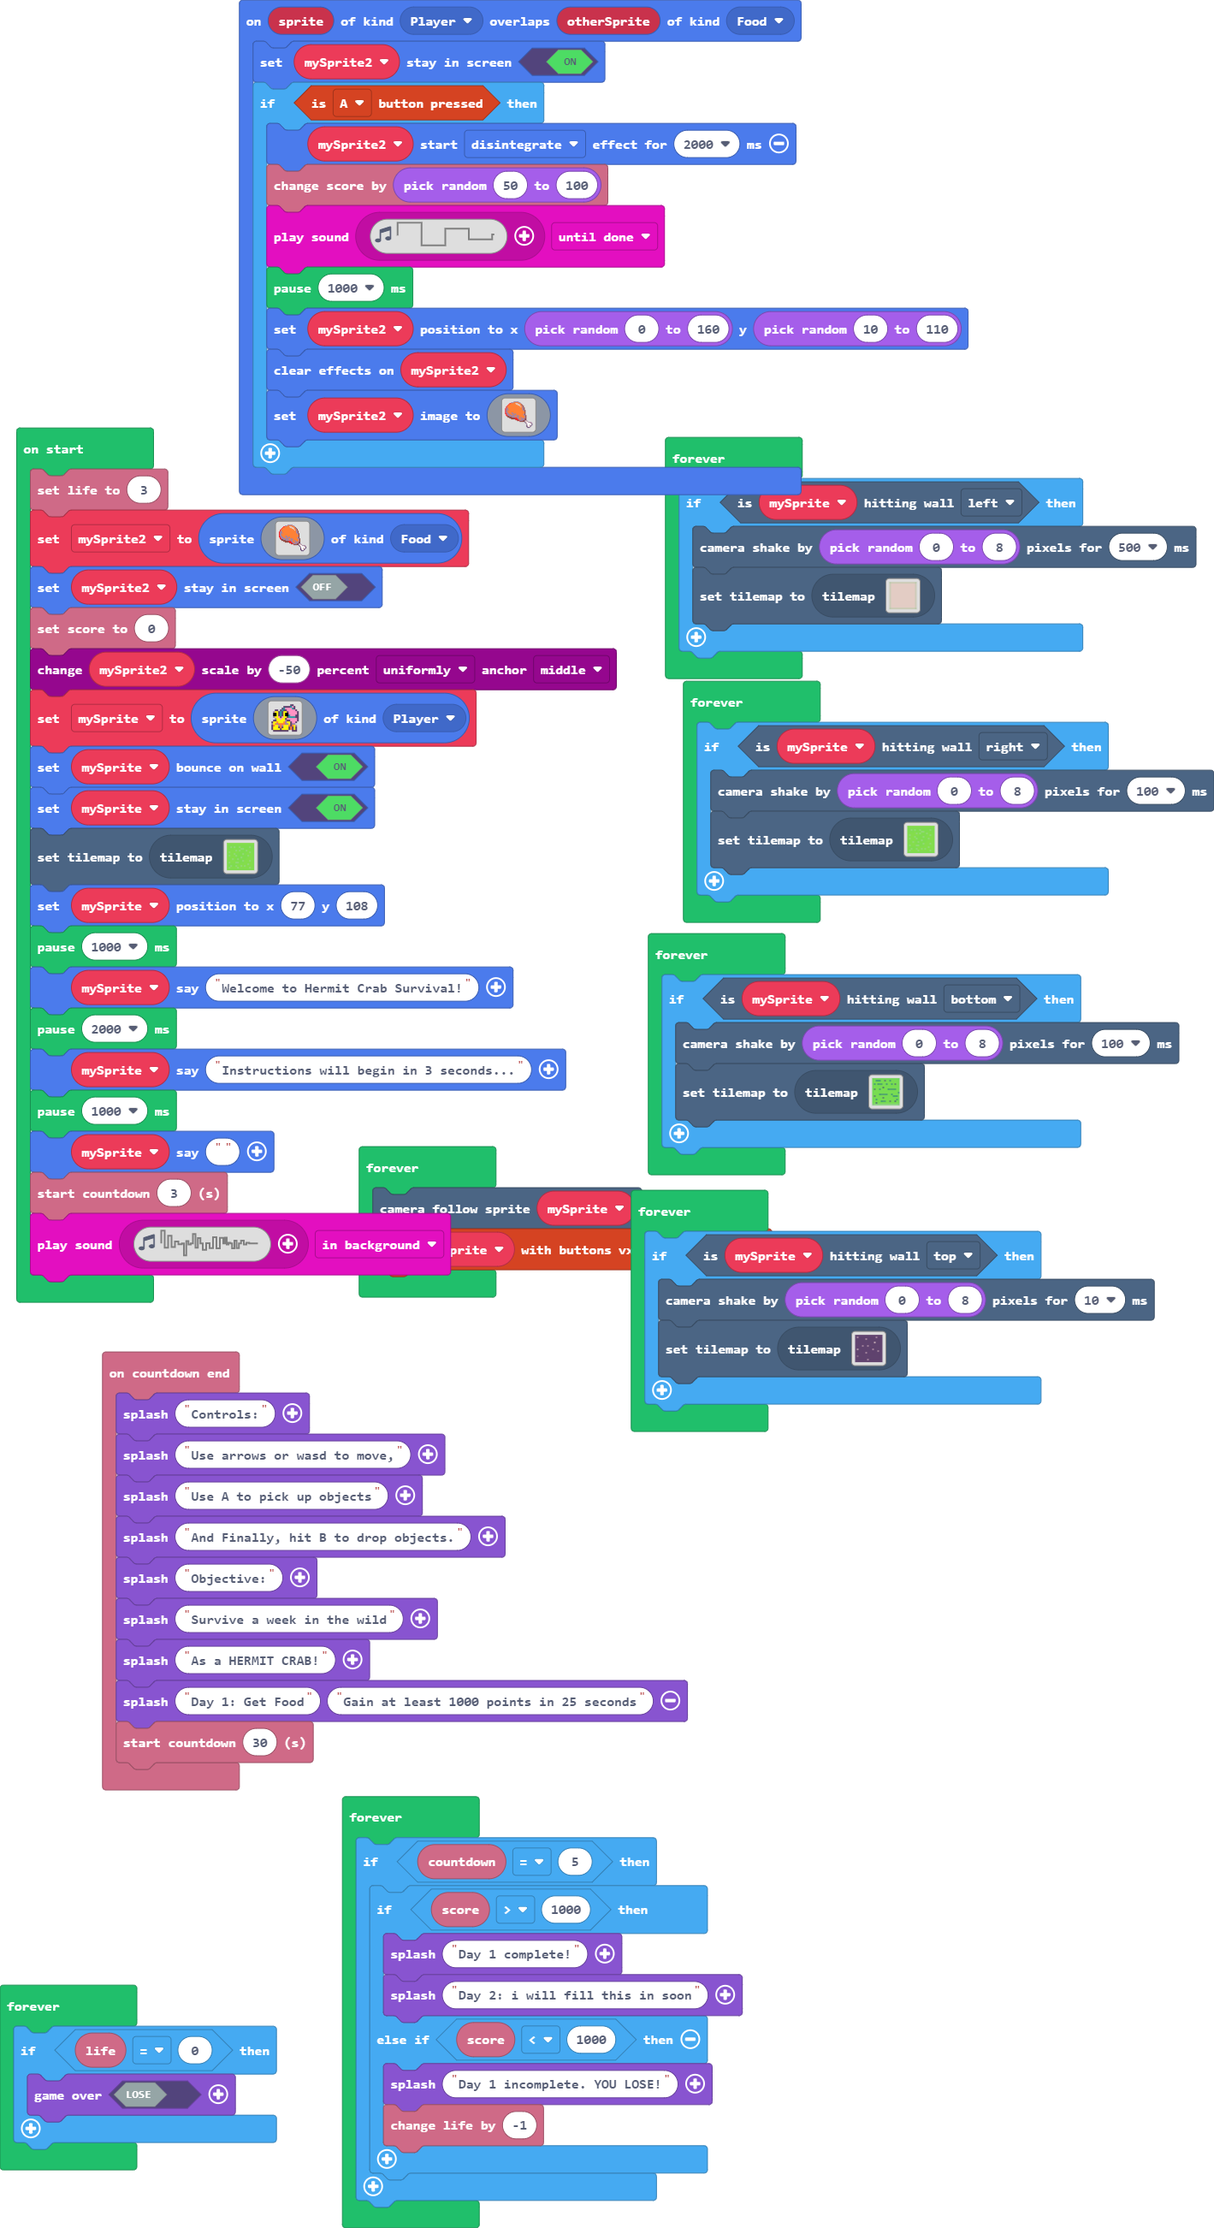
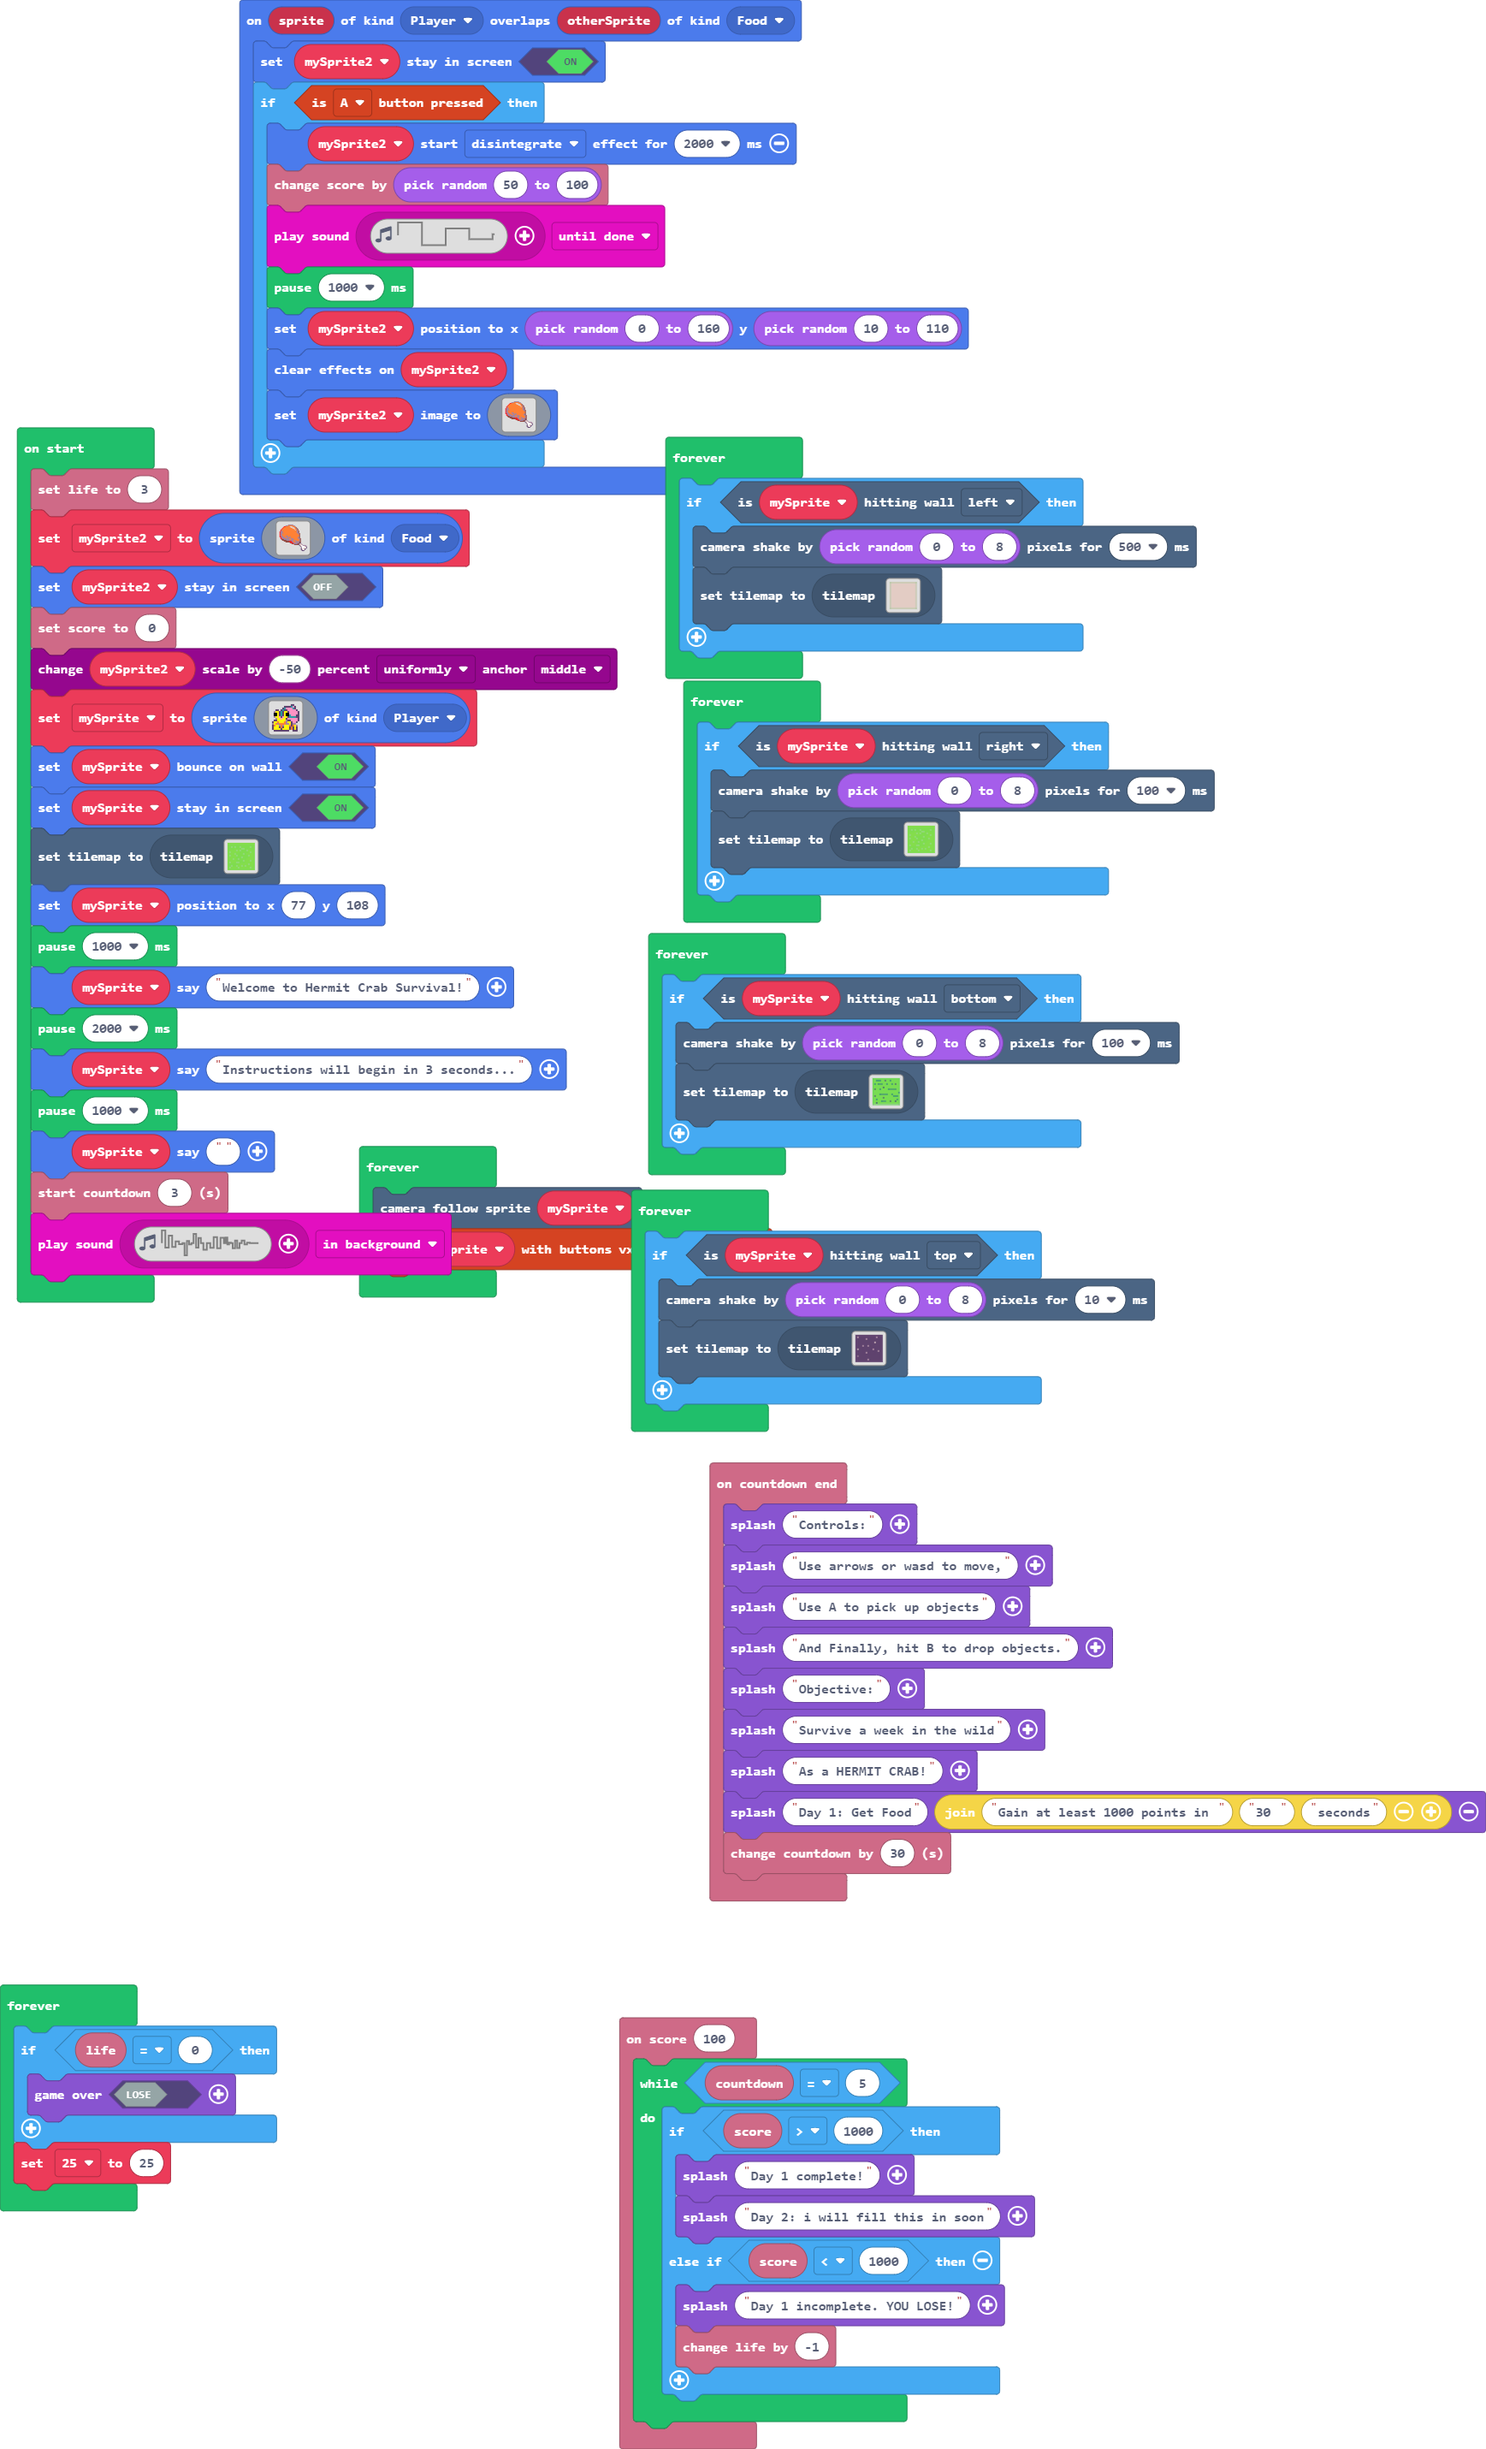
added second countdown, working but at the end it does the old code. put second countdown end code in an on score cap block to make sure it runs.

diff --git a/main.ts b/main.ts
@@ -6,8 +6,19 @@ info.onCountdownEnd(function () {
     game.splash("Objective:")
     game.splash("Survive a week in the wild")
     game.splash("As a HERMIT CRAB!")
-    game.splash("Day 1: Get Food", "Gain at least 1000 points in 25 seconds")
-    info.startCountdown(30)
+    game.splash("Day 1: Get Food", "Gain at least 1000 points in " + "30 " + "seconds")
+    info.changeCountdownBy(30)
+})
+info.onScore(100, function () {
+    while (info.countdown() == 5) {
+        if (info.score() > 1000) {
+            game.splash("Day 1 complete!")
+            game.splash("Day 2: i will fill this in soon")
+        } else if (info.score() < 1000) {
+            game.splash("Day 1 incomplete. YOU LOSE!")
+            info.changeLifeBy(-1)
+        }
+    }
 })
 sprites.onOverlap(SpriteKind.Player, SpriteKind.Food, function (sprite, otherSprite) {
     mySprite2.setStayInScreen(true)
@@ -55,6 +66,7 @@ sprites.onOverlap(SpriteKind.Player, SpriteKind.Food, function (sprite, otherSpr
     }
 })
 let mySprite2: Sprite = null
+let _25 = 0
 info.setLife(3)
 mySprite2 = sprites.create(img`
     ..........bbbbbb................
@@ -152,18 +164,8 @@ forever(function () {
     }
 })
 forever(function () {
-    if (info.countdown() == 5) {
-        if (info.score() > 1000) {
-            game.splash("Day 1 complete!")
-            game.splash("Day 2: i will fill this in soon")
-        } else if (info.score() < 1000) {
-            game.splash("Day 1 incomplete. YOU LOSE!")
-            info.changeLifeBy(-1)
-        }
-    }
-})
-forever(function () {
     if (info.life() == 0) {
         game.over(false)
     }
+    _25 = 25
 })
